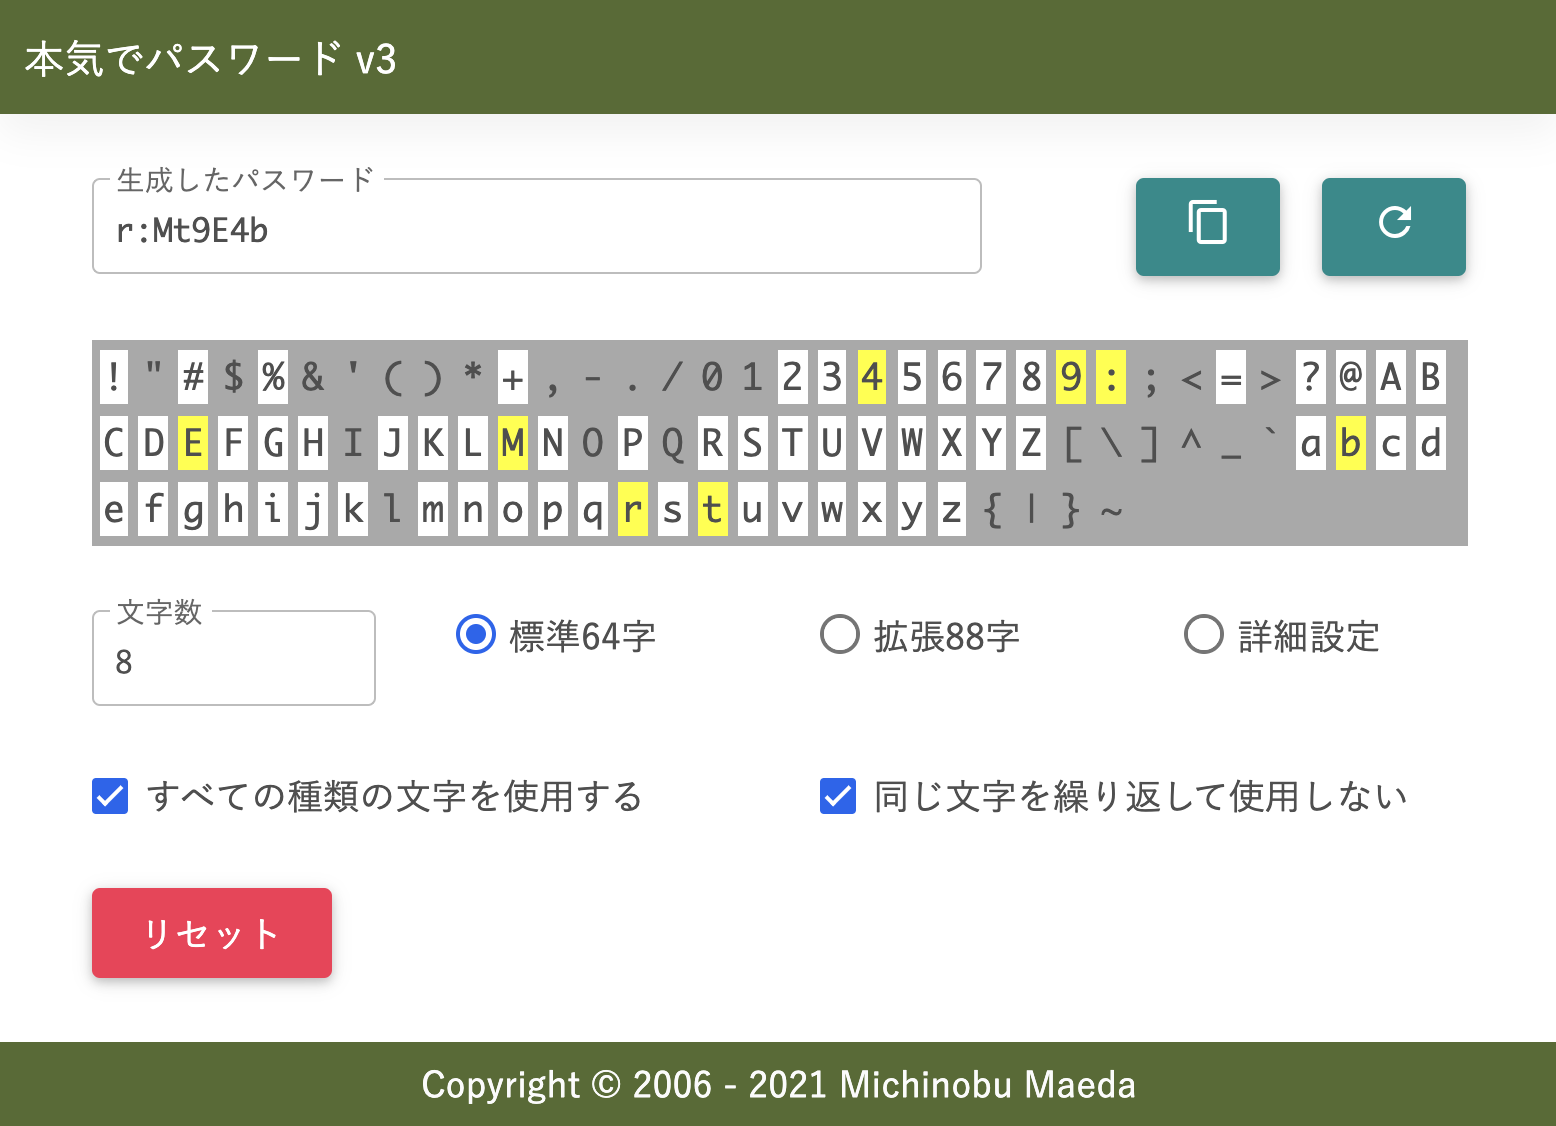
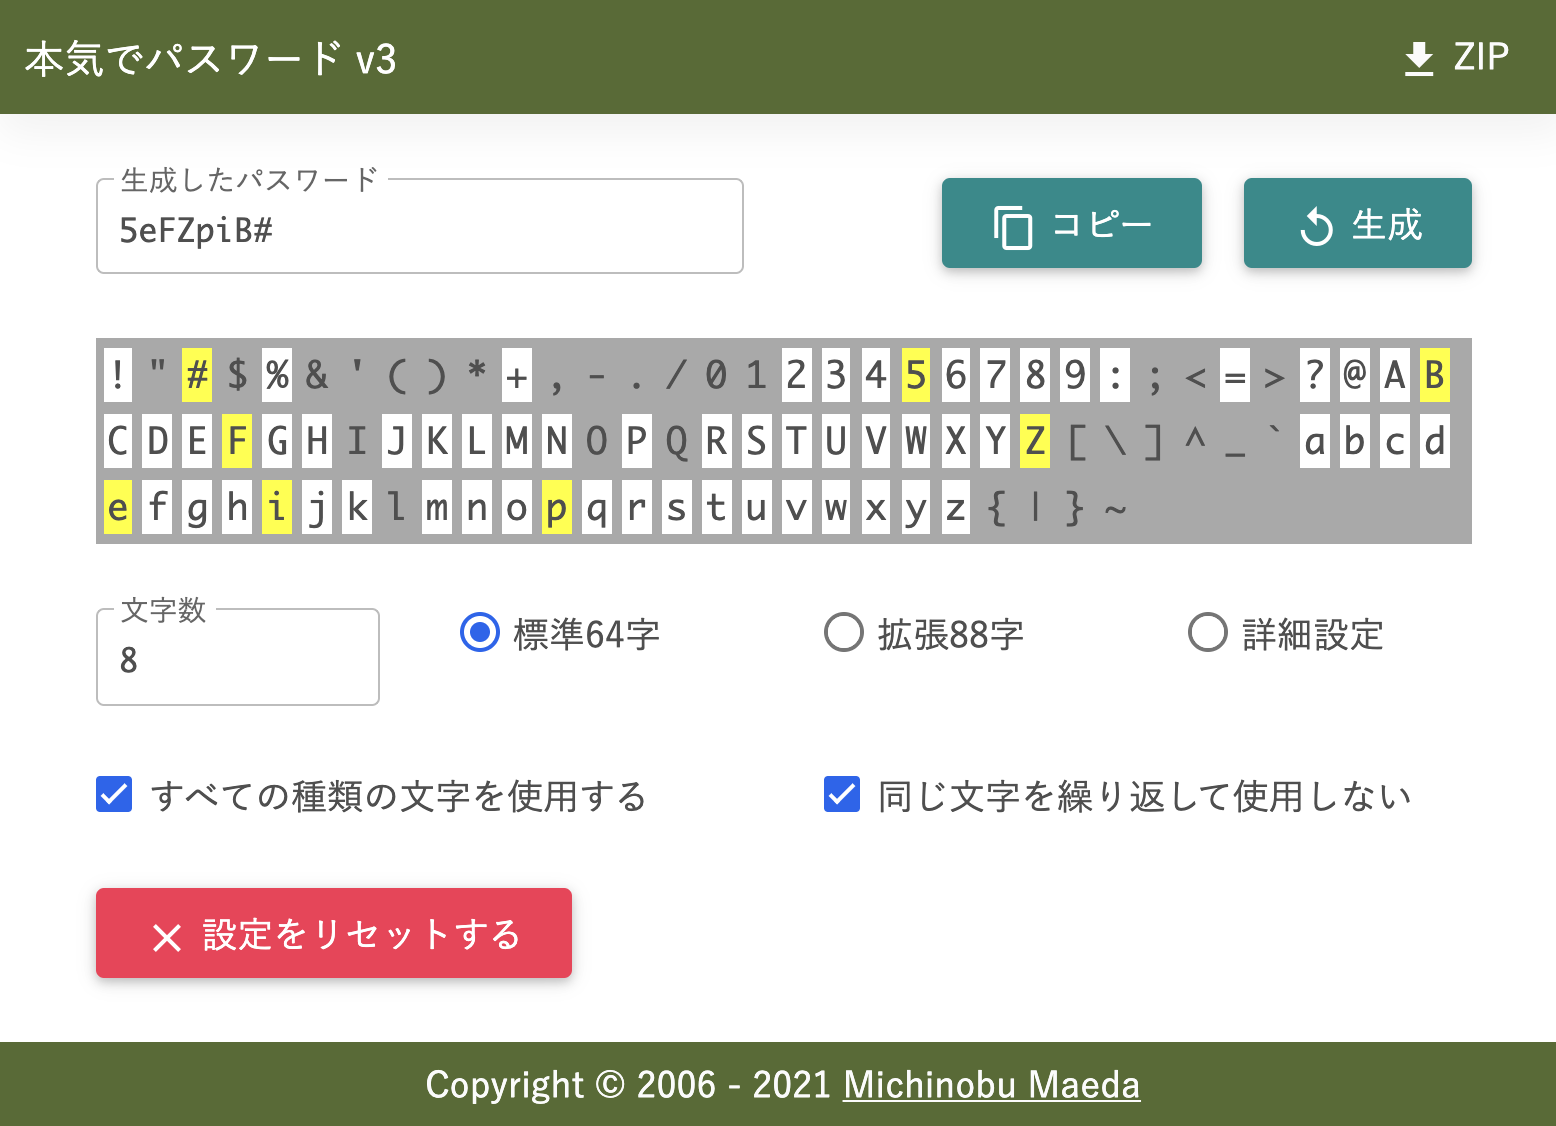
follow update of the app

diff --git a/t/index.md b/t/index.md
@@ -83,7 +83,7 @@
 <a id="tag-xcode" style="font-size: 0.9em" href="javascript:filterByTag('xcode')">xcode</a>
 </p>
 <p><a id="tag-ALL" href="javascript:filterByTag('ALL')">フィルタ解除</a></p>
-- 2021-05-22 [本気でパスワード v3](20210522honkipass.html "javascript")
+- 2021-05-26 [本気でパスワード v3](20210522honkipass.html "javascript")
 - 2021-05-18 [このサイトを GitHub Pages に引っ越し](githubpagesminimal.html "github ruby jekyll")
 - 2021-05-14 [Edge の開発者ツールを表示する手順](edgehowtoopendevtools.html)
 - 2021-05-08 [yarn の警告 "No license field" を止める](yarnwarningnolicensefield.html "nodejs")
